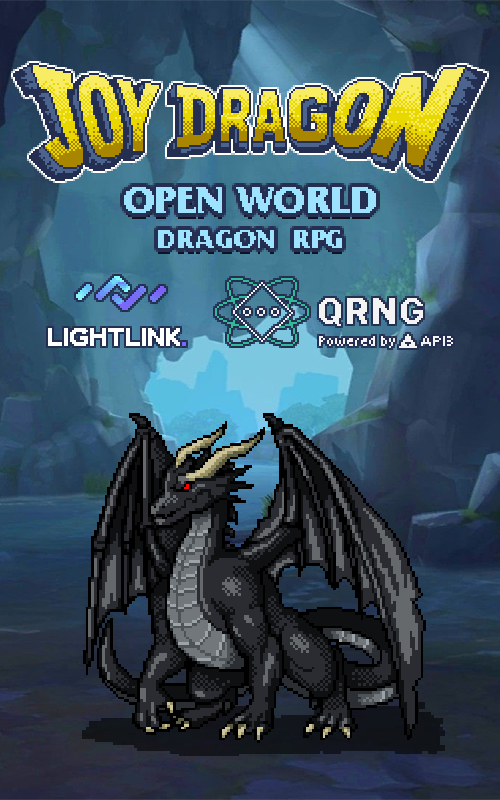
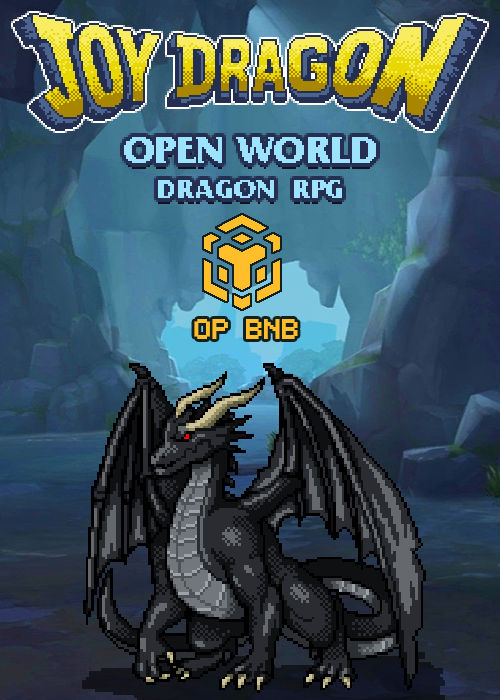
update

diff --git a/components/play/breed.tsx b/components/play/breed.tsx
@@ -9,6 +9,8 @@ import {
 } from "wagmi";
 import { useDebounce } from './useDebounce';
 import { readContracts, watchAccount, writeContract, prepareWriteContract } from '@wagmi/core'
+import { decodeAbiParameters } from 'viem'
+
 
 export const Breed = () => {
     const [isAddress, setIsAddress] = React.useState<any>(false)
@@ -124,21 +126,27 @@ export const Breed = () => {
             setIsAddress(false);
         };
         //api/tx/getAssetTransferByAddress?page=1&&pageSize=20&address=
-        let response: any = await fetch(`${process.env.EXPLORER_URL}/api/token/getTokensByAddress?address=${process.env.NFT_ADDRESS}&pageSize=0x64`)
+        //let response: any = await fetch(`${process.env.EXPLORER_URL}/api/tx/getAssetTransferByAddress?page=${page}&type=721&pageSize=20&address=${process.env.NFT_ADDRESS}`)
+        let response: any = await fetch(`${process.env.EXPLORER_URL}/api/tx/getAssetTransferByAddress?page=1&type=721&pageSize=40&address=${address}`)
         response = await response.json()
         const petArr: any = [];
         const petArrA: any = [];
         const petArrB: any = [];
         console.log("petcheck", response)
-        if (response.items) {
-            for (const element of response.items) {
+        if (response.data?.list) {
+            for (const element of response.data?.list) {
+                const values = decodeAbiParameters(
+                    [{ name: 'x', type: 'uint32' }],
+                    element.erc721TokenId,
+                  )
+                  const data = values[0].toString()
                 const Info: any = await readContracts({
                     contracts: [
                         {
                             address: `0x${process.env.NFT_ADDRESS?.slice(2)}`,
                             abi: nftAbi,
                             functionName: 'getPetInfo',
-                            args: [element.id],
+                            args: [BigInt(data)],
                         }
                     ],
                 })
@@ -148,7 +156,7 @@ export const Breed = () => {
                             address: `0x${process.env.NFT_ADDRESS?.slice(2)}`,
                             abi: nftAbi,
                             functionName: 'getPetAttributes',
-                            args: [element.id],
+                            args: [BigInt(data)],
                         }
                     ],
                 })
@@ -158,13 +166,13 @@ export const Breed = () => {
                             address: `0x${process.env.NFT_ADDRESS?.slice(2)}`,
                             abi: nftAbi,
                             functionName: 'getPetEvolutionInfo',
-                            args: [element.id],
+                            args: [BigInt(data)],
                         }
                     ],
                 })
-                if (element.owner.hash == address) {
+                
                     petArr.push({
-                        value: element.id,
+                        value: BigInt(data),
                         label: Info[0].result[0],
                         sex: InfoAttr[0].result[4],
                         status: Info[0].result[1],
@@ -172,7 +180,7 @@ export const Breed = () => {
                     })
                     if (InfoAttr[0].result[4] == 0 && Info[0].result[1] !== 4 && InfoEvol[0].result[1] == 2) {
                         petArrA.push({
-                            value: element.id,
+                            value: BigInt(data),
                             label: Info[0].result[0],
                             sex: InfoAttr[0].result[4],
                             status: Info[0].result[1],
@@ -181,14 +189,14 @@ export const Breed = () => {
                     }
                     if (InfoAttr[0].result[4] == 1 && Info[0].result[1] !== 4 && InfoEvol[0].result[1] == 2) {
                         petArrB.push({
-                            value: element.id,
+                            value: BigInt(data),
                             label: Info[0].result[0],
                             sex: InfoAttr[0].result[4],
                             status: Info[0].result[1],
                             evol: InfoEvol[0].result[1]
                         })
                     }
-                }
+                
             }
             console.log("petArr", petArr)
             console.log("petArrA", petArrA)

diff --git a/components/play/battle.tsx b/components/play/battle.tsx
@@ -10,6 +10,7 @@ import { Card, CardBody, CardHeader, Divider } from "@nextui-org/react";
 import { nftAbi, tokenAbi } from './abi';
 import { Image } from "@nextui-org/react";
 import CountDownTimer from "./CountDownTimer";
+import { decodeAbiParameters } from 'viem'
 
 const fetcher = async (...args: Parameters<typeof fetch>) => {
     const res = await fetch(...args);
@@ -18,7 +19,7 @@ const fetcher = async (...args: Parameters<typeof fetch>) => {
 
 export const Battle = () => {
     const { address } = useAccount();
-    const [page, setPage] = React.useState(0);
+    const [page, setPage] = React.useState(1);
     const [ownPet, setOwnPet] = useState<any>(null)
     const [selectedPet, setSelectedPet] = useState<any>('')
     const [activity, setActivity] = useState<any>([])
@@ -281,13 +282,19 @@ export const Battle = () => {
     }
 
     const getPetList = async () => {
-        let response: any = await fetch(`${process.env.EXPLORER_URL}/api/tx/getAssetTransferByAddress?page=${page}&&pageSize=20&address=${process.env.NFT_ADDRESS}`)
-        response = await response.json()
-        let petList = response?.items?.filter((item: any) => item.owner.hash !== address && item.owner.hash !== '0x0000000000000000000000000000000000000000');
-
         let newPetList = [];
-        for (const data in petList) {
-            console.log("petList", data)
+        let response: any = await fetch(`${process.env.EXPLORER_URL}/api/tx/getAssetTransferByAddress?page=${page}&type=721&pageSize=20&address=${process.env.NFT_ADDRESS}`)
+        response = await response.json()
+        let petListData : any =  response?.data?.list?.filter((item: any) => item.to !== address && item.from == '0x0000000000000000000000000000000000000000');
+        console.log("petList1",petListData)
+        
+        for (const element of petListData) {
+            const values = decodeAbiParameters(
+                [{ name: 'x', type: 'uint32' }],
+                element.erc721TokenId,
+              )
+              const data = values[0].toString()
+              console.log("values",values)
             // code block to be executed
             const res: any = await readContracts({
                 contracts: [
@@ -295,7 +302,7 @@ export const Battle = () => {
                         address: `0x${process.env.NFT_ADDRESS?.slice(2)}`,
                         abi: nftAbi,
                         functionName: 'getPetInfo',
-                        args: [BigInt(data)],
+                        args: [BigInt(values[0].toString())],
                     }
                 ],
             })
@@ -328,7 +335,6 @@ export const Battle = () => {
 
         setPetList(newPetList);
         setLoadingState(true);
-        console.log("petList", newPetList)
     }
     React.useEffect(() => {
 

diff --git a/components/play/pet.tsx b/components/play/pet.tsx
@@ -26,6 +26,7 @@ import { readContracts, watchAccount, writeContract, prepareWriteContract } from
 
 import CountDownTimer from "./CountDownTimer";
 import Slider from "react-slick";
+import { decodeAbiParameters } from 'viem'
 
 const nftAddress = process.env.NFT_ADDRESS;
 const MAX_ALLOWANCE = BigInt('20000000000000000000000')
@@ -91,34 +92,38 @@ export const Pet = () => {
             setIsAddress(false);
         };
        // https://op-bnb-mainnet-explorer-api.nodereal.io/api/token/getTokensByAddress?address=0x7fdce7ecc58b799b287c44ff57f159f5579e4bf8&pageSize=0x64
-        let response: any = await fetch(`${process.env.EXPLORER_URL}/api/token/getTokensByAddress?address=${process.env.NFT_ADDRESS}&pageSize=0x64`)
+       //https://op-bnb-testnet-explorer-api.nodereal.io/api/token/getxTokensByAddress?address=0x5950cF7303605acBC5B274E8cA658542832Cb9a3&pageSize=0x64
+       //let response: any = await fetch(`${process.env.EXPLORER_URL}/api/tx/getAssetTransferByAddress?page=${page}&type=721&pageSize=20&address=${process.env.NFT_ADDRESS}`)
+        let response: any = await fetch(`${process.env.EXPLORER_URL}/api/tx/getAssetTransferByAddress?page=1&type=721&pageSize=20&address=${address}`)
         response = await response.json()
         const petArr: any = [];
         let checkPet = false;
         let checkPetId = await localStorage.getItem('pet')
-        if (response.items) {
-            for (const element of response.items) {
-
-                if (element.owner.hash == address) {
-
+        if (response?.data) {
+        
+            for (const element of response?.data?.list) {
+                const values = decodeAbiParameters(
+                    [{ name: 'x', type: 'uint32' }],
+                    element.erc721TokenId,
+                  )
                     const Info: any = await readContracts({
                         contracts: [
                             {
                                 address: `0x${process.env.NFT_ADDRESS?.slice(2)}`,
                                 abi: nftAbi,
                                 functionName: 'getPetInfo',
-                                args: [element.id],
+                                args: [BigInt(values[0].toString())],
                             }
                         ],
                     })
-                    if (element.id == checkPetId) {
+                    if (values[0].toString() == checkPetId) {
                         checkPet = true
                     }
                     petArr.push({
-                        value: element.id,
+                        value: values[0].toString(),
                         label: Info[0].result[0]
                     })
-                }
+                
             }
         }
 

diff --git a/components/sidebar/sidebar.tsx b/components/sidebar/sidebar.tsx
@@ -29,12 +29,7 @@ export const SidebarWrapper = () => {
           <div className={Sidebar.Body()}>
 
             <SidebarMenu title="Main Menu">
-              <SidebarItem
-                isActive={pathname === "/accounts"}
-                title="Accounts"
-                icon={<AccountsIcon />}
-                href="accounts"
-              />
+              
               <SidebarItem
                 title="Proposals"
                 icon={<HomeIcon />}

diff --git a/next.config.js b/next.config.js
@@ -13,7 +13,7 @@ const nextConfig = {
       TOKEN_ADDRESS:'0x0B47EEB7290D413D2a51273cf7fd440c6f53E8e4',
       FAUCET_ADDRESS:'0x20449b21e2DDb4a1C335C2e65DD731482450558f',
       DAO_ADDRESS:'0x410EaA07644593d428568eA1B6b435e6f6Ad3C4D',
-      EXPLORER_URL:'https://op-bnb-mainnet-explorer-api.nodereal.io'
+      EXPLORER_URL:'https://op-bnb-testnet-explorer-api.nodereal.io'
     },
 }
 

diff --git a/app/layout.tsx b/app/layout.tsx
@@ -8,8 +8,8 @@ import { Silkscreen } from '@/config/fonts';
 import clsx from "clsx";
 
 export const metadata: Metadata = {
-  title: 'Next.js',
-  description: 'Generated by Next.js',
+  title: 'JoyDragon',
+  description: 'Open Dragon RPG battle',
 }
 
 export default function RootLayout({

diff --git a/app/page.tsx b/app/page.tsx
@@ -1,8 +1,8 @@
 import type { NextPage } from "next";
-import { Content } from "@/components/home/content";
+import { Plays } from "@/components/play";
 
 const Home: NextPage = () => {
-  return <Content />;
+  return <Plays />;
 };
 
 export default Home;
